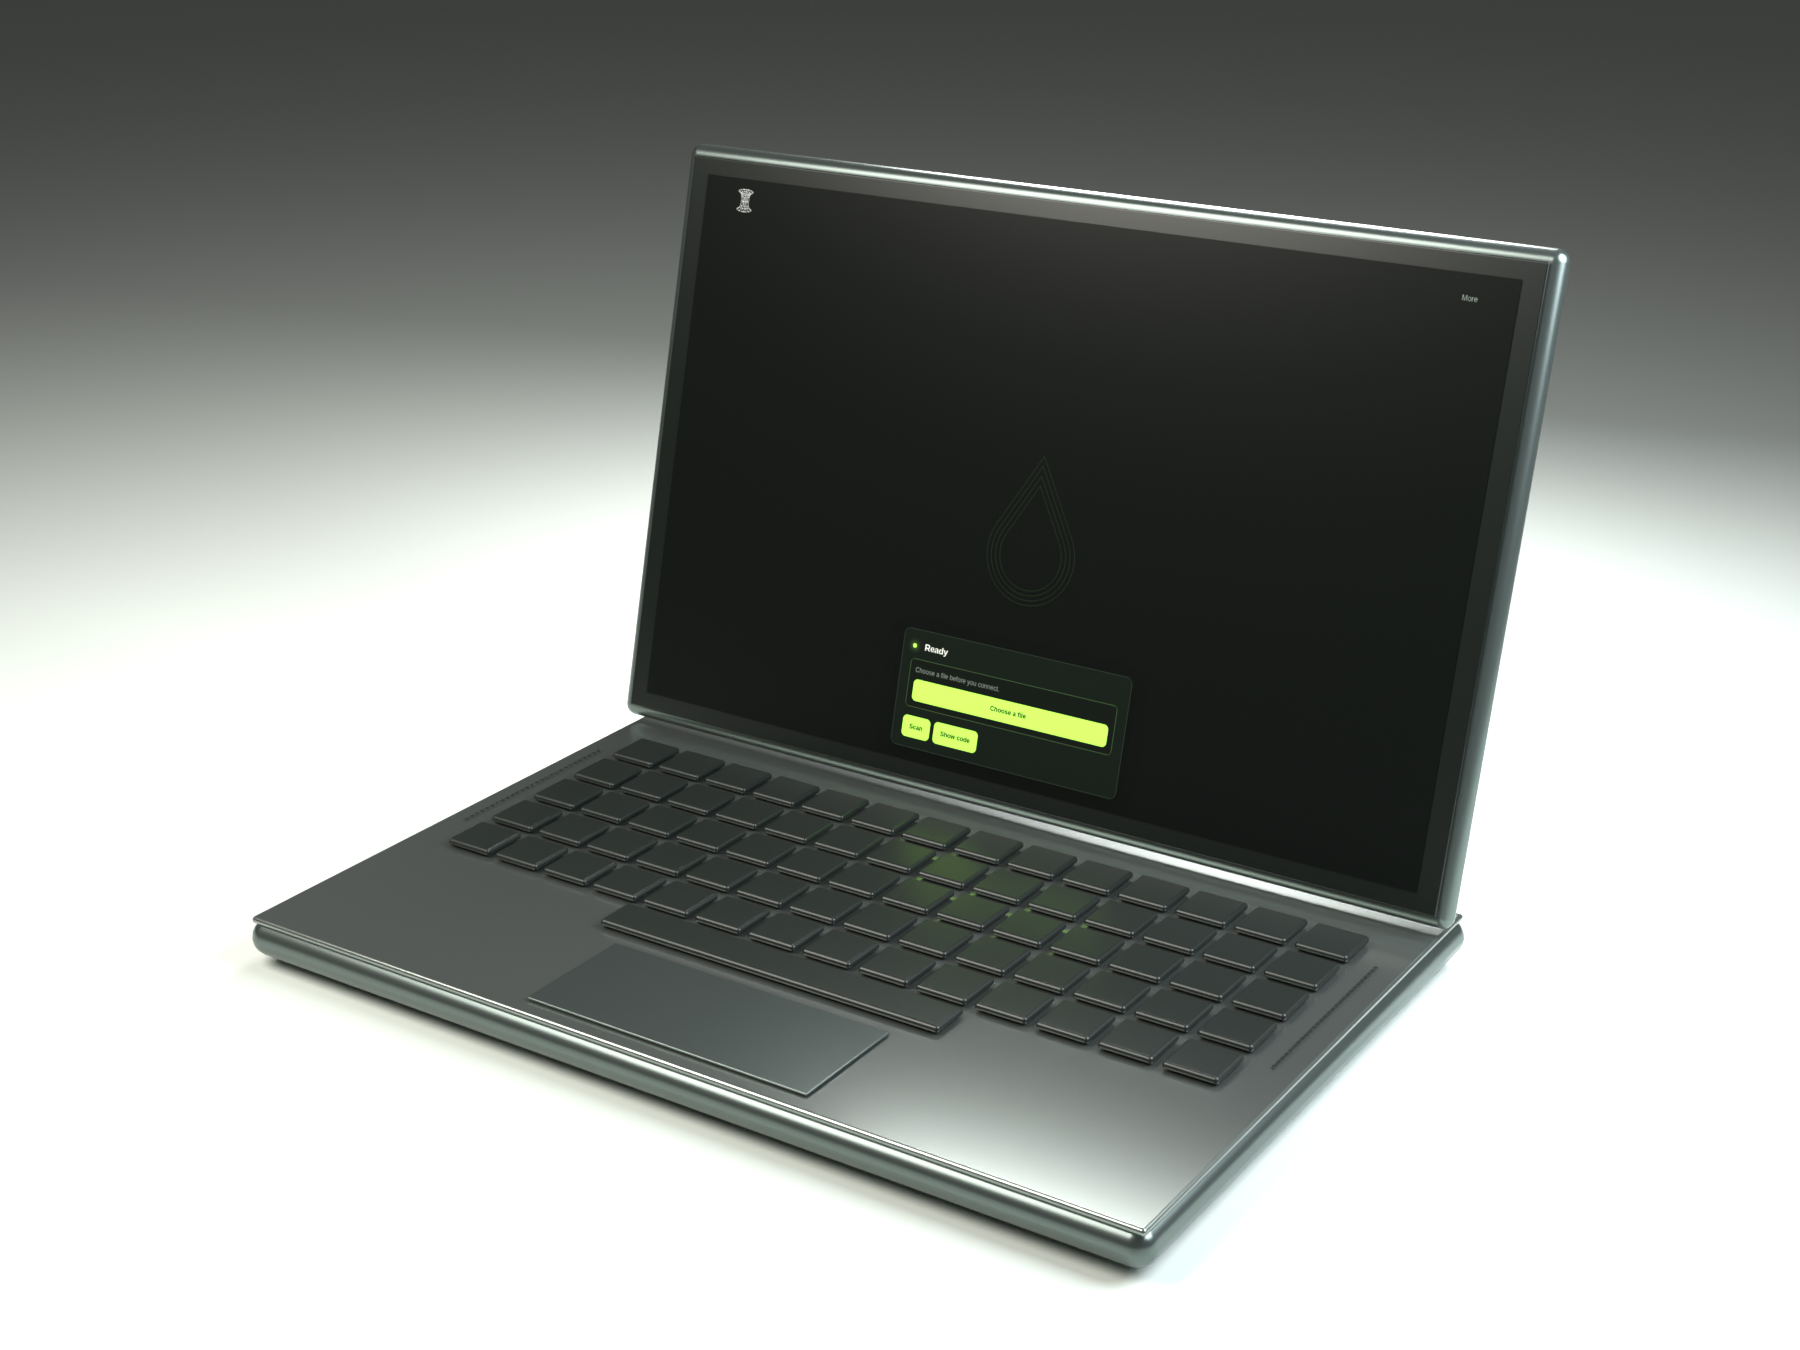
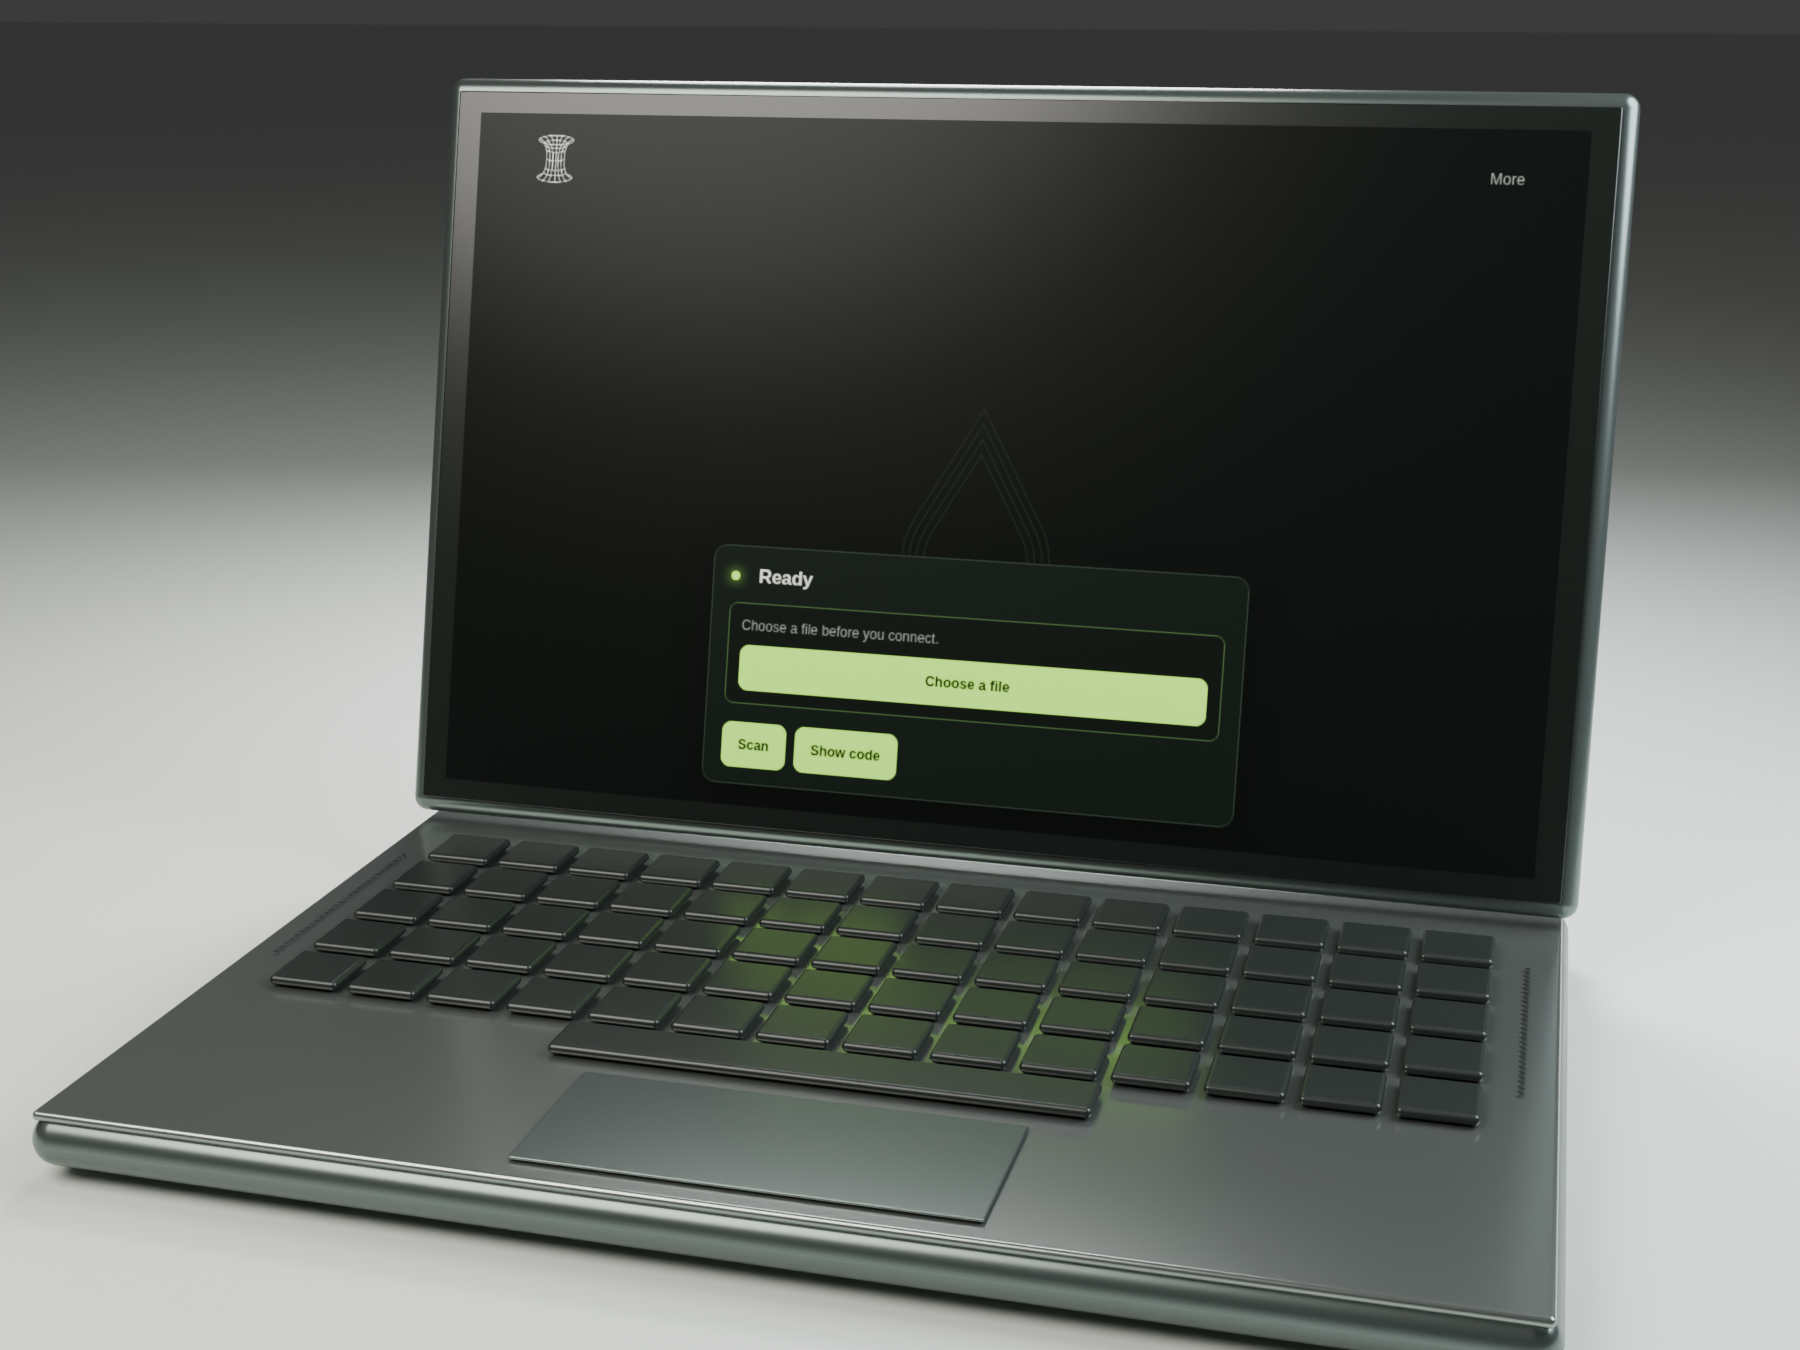
focus support on the application and sourced next steps

diff --git a/resources/views/support/index.antlers.html b/resources/views/support/index.antlers.html
@@ -1,6 +1,6 @@
 <article class="support-story" data-support-story>
     <header class="support-opening site-container">
-        <p class="support-person">Jack Ruder · Software und Robotik</p>
+        <p class="support-person">{{ byline | sanitize }}</p>
         <div class="support-opening-layout"><div><h1>{{ heading | sanitize }}</h1><p class="support-opening__intro">{{ intro | sanitize }}</p></div>
         {{ if rosenfold_image }}{{ partial:media/image image_format="webp" image_quality="80" :asset="rosenfold_image" width="1600" sizes="(min-width: 1024px) 55vw, 94vw" loading="eager" fetchpriority="high" :caption_override="rosenfold_caption" figure_class="support-laptop" }}{{ /if }}</div>
         <nav aria-label="Projekte auf dieser Seite"><a href="#offene-software">Offene Software</a><a href="#rosenfold">Rosenfold</a><a href="#atheblues">AtheBlues</a></nav>
@@ -9,20 +9,20 @@
         <svg class="support-connection" data-support-connection aria-hidden="true" focusable="false"><path data-support-path /></svg>
         <div class="support-work__intro" data-support-from><h2 id="software-heading">{{ software_title | sanitize }}</h2><p>{{ software_intro | sanitize }}</p></div>
         <div class="support-software-artifact">{{ if software_image }}{{ partial:media/image image_format="webp" image_quality="80" :asset="software_image" width="1280" sizes="(min-width: 1024px) 65vw, 94vw" :caption_override="software_caption" }}{{ /if }}<div class="support-artifact-note">{{ software_project }}{{ if published && project_status != 'confidential' }}<h3>{{ title | sanitize }}</h3><p>{{ summary | sanitize }}</p><a class="semantic-link" href="{{ url }}">Arbeitsstand ansehen</a>{{ /if }}{{ /software_project }}</div></div>
-        <div class="support-next" data-support-to><h3>Was Unterstützung hier bedeutet</h3><p>{{ software_need | sanitize }}</p><span class="support-owner">Persönliche Softwareprojekte</span></div>
+        <div class="support-next" data-support-to><h3>{{ software_need_heading | sanitize }}</h3><p>{{ software_need | sanitize }}</p><span class="support-owner">{{ software_owner_label | sanitize }}</span></div>
     </section>
     <section id="rosenfold" class="support-work support-work--rosenfold" data-support-section aria-labelledby="rosenfold-heading">
         <div class="site-container support-rosenfold-layout">
             <svg class="support-connection" data-support-connection aria-hidden="true" focusable="false"><path data-support-path /></svg>
-            <div data-support-from><p class="support-owner">Unabhängiges Projekt · In Entwicklung</p><h2 id="rosenfold-heading">{{ rosenfold_title | sanitize }}</h2><p>{{ rosenfold_intro | sanitize }}</p></div>
+            <div data-support-from><p class="support-owner">{{ rosenfold_owner_label | sanitize }}</p><h2 id="rosenfold-heading">{{ rosenfold_title | sanitize }}</h2><p>{{ rosenfold_intro | sanitize }}</p></div>
             <div class="support-code"><h3 id="rosenfold-code-heading">{{ rosenfold_code_title | sanitize }}</h3><p>{{ rosenfold_code_intro | sanitize }}</p><pre tabindex="0" role="region" aria-labelledby="rosenfold-code-heading"><code>{{ rosenfold_code | entities }}</code></pre><p class="support-code-source">{{ rosenfold_code_source | sanitize }}</p></div>
             {{ if rosenfold_screen }}{{ partial:media/image image_format="webp" image_quality="85" :asset="rosenfold_screen" width="1280" sizes="(min-width: 1024px) 45vw, 94vw" :caption_override="rosenfold_screen_caption" figure_class="support-screen" }}{{ /if }}
-            <div class="support-next" data-support-to><h3>Der nächste belegbare Schritt</h3><p>{{ rosenfold_need | sanitize }}</p></div>
+            <div class="support-next" data-support-to><h3>{{ rosenfold_need_heading | sanitize }}</h3><p>{{ rosenfold_need | sanitize }}</p></div>
         </div>
     </section>
     <section id="atheblues" class="support-work support-work--robot site-container" data-support-section aria-labelledby="robot-heading">
         <svg class="support-connection" data-support-connection aria-hidden="true" focusable="false"><path data-support-path /></svg>
-        <div class="support-robot-layout"><div data-support-from><p class="support-owner">AtheBlues · Schulteam</p><h2 id="robot-heading">{{ robot_title | sanitize }}</h2>{{ robot_project }}{{ if published && project_status != 'confidential' }}<p>{{ summary | sanitize }}</p><a class="semantic-link" href="{{ url }}">Die Robotikgeschichte lesen</a>{{ /if }}{{ /robot_project }}</div>
+        <div class="support-robot-layout"><div data-support-from><p class="support-owner">{{ robot_owner_label | sanitize }}</p><h2 id="robot-heading">{{ robot_title | sanitize }}</h2>{{ robot_project }}{{ if published && project_status != 'confidential' }}<p>{{ summary | sanitize }}</p><a class="semantic-link" href="{{ url }}">Die Robotikgeschichte lesen</a>{{ /if }}{{ /robot_project }}</div>
         {{ if robot_image }}<div class="support-workshop-photo"><p class="support-owner">{{ robot_archive_label | sanitize }}</p>{{ partial:media/image image_format="webp" image_quality="80" :asset="robot_image" width="1600" sizes="94vw" :caption_override="robot_caption" }}</div>{{ /if }}</div>
         <div class="support-workshop-intro"><h3>{{ robot_archive_title | sanitize }}</h3><p>{{ robot_archive_intro | sanitize }}</p></div>
         <div class="support-workshop-record">
@@ -30,8 +30,8 @@
             <div class="support-workshop-notes"><div><h4>{{ robot_control_title | sanitize }}</h4><p>{{ robot_control_text | sanitize }}</p></div><div><h4>{{ robot_drive_title | sanitize }}</h4><p>{{ robot_drive_text | sanitize }}</p></div><div><h4>{{ robot_test_title | sanitize }}</h4><p>{{ robot_test_text | sanitize }}</p></div><a class="semantic-link" href="https://athenetz.de/ag-robotik/rcj_2024_kassel/rcj_2024_kassel.html" rel="external">Werkstatt- und Wettbewerbsbericht der Robotik-AG</a></div>
         </div>
         <div class="support-current"><h3>{{ robot_current_title | sanitize }}</h3><p>{{ robot_current_text | sanitize }}</p></div>
-        <div class="support-next" data-support-to><h3>Material für das Team</h3><p>{{ robot_need | sanitize }}</p></div>
+        <div class="support-next" data-support-to><h3>{{ robot_need_heading | sanitize }}</h3><p>{{ robot_need | sanitize }}</p></div>
     </section>
-    <section class="support-transparency site-container" aria-labelledby="transparency-heading"><h2 id="transparency-heading">{{ transparency_title | sanitize }}</h2><div><p>{{ transparency_intro | sanitize }}</p><p>Persönliche Projekte, mögliche geschäftliche Vorhaben und das Schulteam bleiben finanziell getrennt. Diese Seite nimmt keine Zahlungen entgegen.</p></div></section>
-    <footer class="support-ending site-container"><h2>{{ contact_title | sanitize }}</h2><p>{{ contact_intro | sanitize }}</p><a class="btn btn-primary" href="/kontakt?thema=sponsoring">Unterstützung besprechen</a></footer>
+    <section class="support-transparency site-container" aria-labelledby="transparency-heading"><h2 id="transparency-heading">{{ transparency_title | sanitize }}</h2><div><p>{{ transparency_intro | sanitize }}</p><p>{{ financial_boundary | sanitize }}</p></div></section>
+    <footer class="support-ending site-container"><h2>{{ contact_title | sanitize }}</h2><p>{{ contact_intro | sanitize }}</p><a class="btn btn-primary" href="/kontakt?thema=sponsoring">{{ contact_label | sanitize }}</a></footer>
 </article>

diff --git a/scripts/media/render-rosenfold-laptop.py b/scripts/media/render-rosenfold-laptop.py
@@ -126,12 +126,12 @@ def area(name, loc, power, size, color):
 area("Large window", (-3, -4, 6), 650, 5, (1, 0.96, 0.89))
 area("Soft fill", (4, 1, 4), 500, 4, (0.87, 0.94, 1))
 area("Rim", (-1, 4, 4), 400, 3, (1, 1, 1))
-bpy.ops.object.camera_add(location=(4.3, -6.3, 4.1))
+bpy.ops.object.camera_add(location=(1.5, -5.3, 2.7))
 camera = bpy.context.object
 camera.rotation_euler = (
     (Vector((0, 0.25, 1)) - camera.location).to_track_quat("-Z", "Y").to_euler()
 )
-camera.data.lens = 52
+camera.data.lens = 48
 camera.data.dof.use_dof = True
 camera.data.dof.focus_distance = (camera.location - Vector((0, 0.25, 1))).length
 camera.data.dof.aperture_fstop = 7
@@ -144,8 +144,6 @@ scene.render.resolution_x = 1800
 scene.render.resolution_y = 1350
 scene.render.resolution_percentage = 100
 scene.world.color = (0.25, 0.25, 0.25)
-if "AgX" not in scene.view_settings.bl_rna.properties["view_transform"].enum_items.keys():
-    raise RuntimeError("A working Blender AgX/OpenColorIO configuration is required")
 scene.view_settings.view_transform = "AgX"
 scene.render.image_settings.file_format = "PNG"
 scene.render.filepath = a.output

diff --git a/tests/Feature/SupportPageTest.php b/tests/Feature/SupportPageTest.php
@@ -63,9 +63,11 @@ class SupportPageTest extends TestCase
     {
         $entry = Entry::query()->where('collection', 'pages')->where('slug', 'support')->first();
         $html = (new View)->template('support/index')->cascadeContent($entry)
-            ->with(['rosenfold_code' => '<script>privateMarker()</script>', 'robot_archive_title' => 'Redaktionell geänderter Titel'])
+            ->with(['rosenfold_code' => '<script>privateMarker()</script>', 'robot_archive_title' => 'Redaktionell geänderter Titel', 'financial_boundary' => 'Redaktionelle Finanzgrenze', 'contact_label' => 'Redaktioneller Kontakt'])
             ->render();
         $this->assertStringContainsString('Redaktionell geänderter Titel', $html);
+        $this->assertStringContainsString('Redaktionelle Finanzgrenze', $html);
+        $this->assertStringContainsString('Redaktioneller Kontakt', $html);
         $this->assertStringContainsString('&lt;script&gt;privateMarker()', $html);
         $this->assertStringNotContainsString('<script>privateMarker()', $html);
     }

diff --git a/content/collections/pages/support.md b/content/collections/pages/support.md
@@ -7,13 +7,22 @@ published: false
 noindex: true
 heading: 'Was der nächste Versuch braucht.'
 intro: 'Ich arbeite an offener Software und technischen Projekten. Unterstützung soll an einer konkreten Aufgabe ankommen. Hier zeige ich, woran ich arbeite und welche nächsten Schritte noch offen sind.'
+byline: 'Jack Ruder · Software und Robotik'
+software_need_heading: 'Ein noch unveröffentlichtes Werkzeug fertigbauen.'
+software_owner_label: 'Persönliche Softwareprojekte'
+rosenfold_need_heading: 'Unter realen Netzwerkbedingungen prüfen.'
+rosenfold_owner_label: 'Unabhängiges Projekt · In Entwicklung'
+robot_need_heading: 'Vom Antriebsentwurf zum Aufbau.'
+robot_owner_label: 'AtheBlues · Schulteam'
+financial_boundary: 'Persönliche Projekte, mögliche geschäftliche Vorhaben und das Schulteam bleiben finanziell getrennt. Diese Seite nimmt keine Zahlungen entgegen.'
+contact_label: 'Unterstützung besprechen'
 software_title: 'Offene Software endet nicht beim Code.'
 software_intro: 'Entwicklung, Dokumentation und verlässlicher Betrieb kosten Zeit. Hosting und technische Infrastruktur gehören zu dieser Arbeit.'
 software_project:
   - 4739fabf-5726-4d17-ad72-5a5f574e33cd
 software_image: projects/prtop/prtop-live-dashboard.png
 software_caption: 'prtop im Entwicklungsstand. Noch kein veröffentlichtes Release.'
-software_need: 'Unterstützung für persönliche Softwareprojekte kann bei Hosting, Wartung und Dokumentation helfen. Einen konkreten Bedarf und die Verwaltung kläre ich vorab.'
+software_need: 'prtop ist noch nicht veröffentlicht. Ich möchte das Werkzeug fertigbauen, obwohl ich es selbst derzeit nicht nutze. Dafür geht es zunächst um Entwicklungszeit und Wartung. Bei meinen anderen Softwareprojekten kommen Dokumentation und verlässlicher Betrieb hinzu. Eine Unterstützung bekommt einen konkreten Zweck, bevor ich dafür einen Betrag nenne.'
 rosenfold_title: 'Rosenfold. Noch in Entwicklung.'
 rosenfold_intro: 'Rosenfold soll Dateien und Text zwischen Geräten austauschen. Ich entwickle die Anwendung als unabhängiges Projekt. Der gezeigte Stand ist eine lokale Entwicklungsversion, kein fertiges Produkt.'
 rosenfold_image: projects/rosenfold/rosenfold-laptop-render.png
@@ -22,7 +31,7 @@ rosenfold_screen: projects/rosenfold/rosenfold-ready.png
 rosenfold_screen_caption: 'Rosenfold im Zustand Ready, vor der Auswahl einer Datei. Lokale Aufnahme vom 15. November 2026.'
 rosenfold_code_title: 'Fortschritt muss bei den echten Bytes bleiben.'
 rosenfold_code_intro: 'Viele kleine Fortschrittsereignisse sollen die Oberfläche nicht überlasten. Dieser Ausschnitt bündelt Meldungen zeitlich. Der abschließende Wert kann separat ausgegeben werden. Das ist ein Einblick in die Implementierung, kein Nachweis einer fertigen Übertragung.'
-rosenfold_code_source: 'packages/core/src/progress-throttle.ts, Ausschnitt aus db38debd, 15.11.2026'
+rosenfold_code_source: 'packages/core/src/progress-throttle.ts, Ausschnitt aus db38debd, 15.11.2026. Die Projektlizenz ist noch nicht festgelegt.'
 rosenfold_code: |
   report(value: T) {
     pendingValue = value
@@ -33,7 +42,7 @@ rosenfold_code: |
       timer = schedule(deliver, intervalMs - elapsed)
     }
   },
-rosenfold_need: 'Für einen konkreten Förderbedarf müssen ein öffentlich dokumentierter nächster Schritt, passende Infrastrukturkosten und die Zuständigkeit feststehen. Hier sind noch keine geprüften Beträge veröffentlicht.'
+rosenfold_need: 'Im Projektplan stehen noch reale Netzwerkprüfungen und Tests der Mobil-App auf Geräten. Dazu gehören auch Verbindungen über TURN-Server. Hier können Testinfrastruktur, Geräte und Entwicklungszeit helfen. Einen Kostenplan veröffentliche ich, sobald Bedarf und Verwaltung geklärt sind.'
 robot_title: 'Am Antrieb weiterarbeiten.'
 robot_project:
   - 8e9f1f56-1feb-46a8-9ae5-a79ec9444c81
@@ -52,7 +61,7 @@ robot_test_title: 'Auf der Bühne zählt der ganze Aufbau.'
 robot_test_text: 'Der AG-Bericht aus Kassel beschreibt unterbrochene Bluetooth-Verbindungen während der Auftritte. Auch nach der Arbeit an Code und Mechanik musste das Zusammenspiel unter Wettbewerbsbedingungen funktionieren.'
 robot_current_title: 'Nächster Entwurf: Rescue Line'
 robot_current_text: 'Der verknüpfte Projektbericht beschreibt die Arbeit am Antrieb eines Rescue-Line-Roboters. CAD, Fertigung und Tests dieses Entwurfs sind hier noch nicht fotografisch belegt. Die Bilder von 2024 werden deshalb ausdrücklich als Archiv gezeigt.'
-robot_need: 'Für AtheBlues geht es um Material, Komponenten und Fertigung für das Teamprojekt. Unterstützung wird ausschließlich mit einer dafür zuständigen Schule oder Teamorganisation geklärt und getrennt von persönlichen Projekten verwaltet.'
+robot_need: 'Wir arbeiten am Antriebsentwurf. Material, Komponenten und Fertigung sollen seine Umsetzung ermöglichen. Computer Vision ist als weiterer Ansatz geplant. Unterstützung klären wir ausschließlich mit einer dafür zuständigen Schule oder Teamorganisation und verwalten sie getrennt von persönlichen Projekten.'
 transparency_title: 'Erst der Zweck. Dann die Summe.'
 transparency_intro: 'Konkrete Budgets und bestätigte Beiträge erscheinen hier erst mit nachvollziehbarer Grundlage. Für diese Seite sind noch keine geprüften Beträge veröffentlicht. Fehlende Angaben bedeuten nicht null Euro.'
 contact_title: 'Etwas möglich machen.'

diff --git a/docs/support-page.md b/docs/support-page.md
@@ -7,13 +7,20 @@ Das Blueprint `support` hält Kapitel, Assetauswahl, Bildunterschriften und Beda
 | Kapitel | Quelle | Noch erforderlich |
 | --- | --- | --- |
 | Persönliche Software | `projects/prtop.md` und vorhandener Terminal-Screenshot | Zweckbezogene, belegte Hosting-/Betriebskosten bei künftigen Summen |
-| Rosenfold | Lokaler Webstand `db38debd47798aabb941adbcec13768f1a1a48d5`, Ready-Screenshot und geprüfter Ausschnitt aus `packages/core/src/progress-throttle.ts`; vom Nutzer für diese Seite angefordert | Entwicklungsversion, kein erfolgreicher Transfer nachgewiesen. Konkrete Kosten und nächster finanzierter Schritt bleiben offen. |
+| Rosenfold | Lokaler Webstand `db38debd47798aabb941adbcec13768f1a1a48d5`, Ready-Screenshot, Ausschnitt aus `packages/core/src/progress-throttle.ts` und `ROADMAP.md` M2/M3; vom Nutzer für diese Seite angefordert | Der Plan nennt Netzwerk-/TURN-Prüfungen und native Geräteabnahme als offen. Der Screenshot belegt keinen Transfer. Konkrete Kosten und finanzierter Umfang bleiben offen. |
 | AtheBlues / Archiv | [Robotik-AG: Kassel 2024](https://athenetz.de/ag-robotik/rcj_2024_kassel/rcj_2024_kassel.html), technisches Poster; [Hannover 2024](https://athenetz.de/ag-robotik/rcj_2024_hannover/rcj_2024_hannover.html), Team und Busmodell | Dokumentiert OnStage, Motorwechsel, gedruckte Halterungen, Steuerung und berichtete Bluetooth-Probleme. Nicht als heutiger Rescue-Line-Stand dargestellt. |
 | AtheBlues / nächster Entwurf | `projects/atheblues.md`: Rescue-Line-Antrieb im Entwurf, Computer Vision geplant | Aktuelle CAD-, Bauteil-, Fertigungs- und Testaufnahmen fehlen weiterhin. Die verlinkte AG berichtet 2026 über andere Teams. |
 
 Der Nutzer hat die AG-Seite als Medienquelle sowie echte Rosenfold-Screenshots, Code und eine programmatisch erzeugte Laptopansicht ausdrücklich angefordert. Das Laptopmotiv ist ein unbenanntes 3D-Modell mit dem unveränderten Ready-Screenshot als Bildschirmtextur. Bildunterschrift und Alttext kennzeichnen es als Rendering. Es ist keine Fotografie vorhandener Hardware. Weder Kopplungscodes noch private Dateiinhalte werden aufgenommen. Der Codeausschnitt wird als zugänglicher, escapeter Text geführt; die Projektlizenz von Rosenfold wird nicht als bereits festgelegt ausgegeben.
 
 Die Originale des technischen Posters und der Teamaufnahme stammen von der angegebenen AG-Seite. Der Bildnachweis nennt Quelle und Jahr, ohne eine Creative-Commons-Lizenz zu behaupten. Im bestehenden Assetfeld bedeutet `rights: cc` lediglich „Jemandes anderen“. Aufnahmen bleiben ausdrücklich datiert. Der Posterlink öffnet das vollständige Originalasset; die Seite verlangt nicht, kleingedruckte Postertexte lesen zu können. Wichtige technische Aussagen stehen zusätzlich als CMS-Text daneben.
+
+Dateizuordnung:
+
+- `atheblues-workshop-2024.jpg`: [Originalaufnahme vor der OnStage-EM](https://athenetz.de/ag-robotik/rcj_2024_hannover/rcj_em2024_01.jpg).
+- `atheblues-technical-poster-2024.png`: [Originalposter Kassel](https://athenetz.de/ag-robotik/rcj_2024_kassel/rcj_2024_kas_03.png).
+- `rosenfold-ready.png`: lokaler Ready-Zustand des unveränderten Rosenfold-Webstands `db38debd`, aufgenommen bei 960 × 600 Pixeln. Keine Kopplung oder Dateiübertragung durchgeführt.
+- `rosenfold-laptop-render.png`: aus diesem Screenshot und dem eigenen generischen Blender-Modell erzeugte Illustration. Die Projektlizenz von Rosenfold bleibt auch beim öffentlich gezeigten Codeausschnitt ausdrücklich ungeklärt.
 
 `scripts/media/render-rosenfold-laptop.py` erzeugt das dauerhafte Produktmotiv. Beispiel: `blender -b --python scripts/media/render-rosenfold-laptop.py -- --screen public/assets/projects/rosenfold/rosenfold-ready.png --output /tmp/rosenfold-laptop.png`. Blender benötigt eine funktionierende OpenColorIO-Konfiguration. Die lokale Paketinstallation hatte eine inkompatible Profilversion; für den Render wurde eine kompatible lokale Konfiguration außerhalb des Repositorys verwendet. PR-Nachweise und Renderlogs werden nicht eingecheckt.
 
